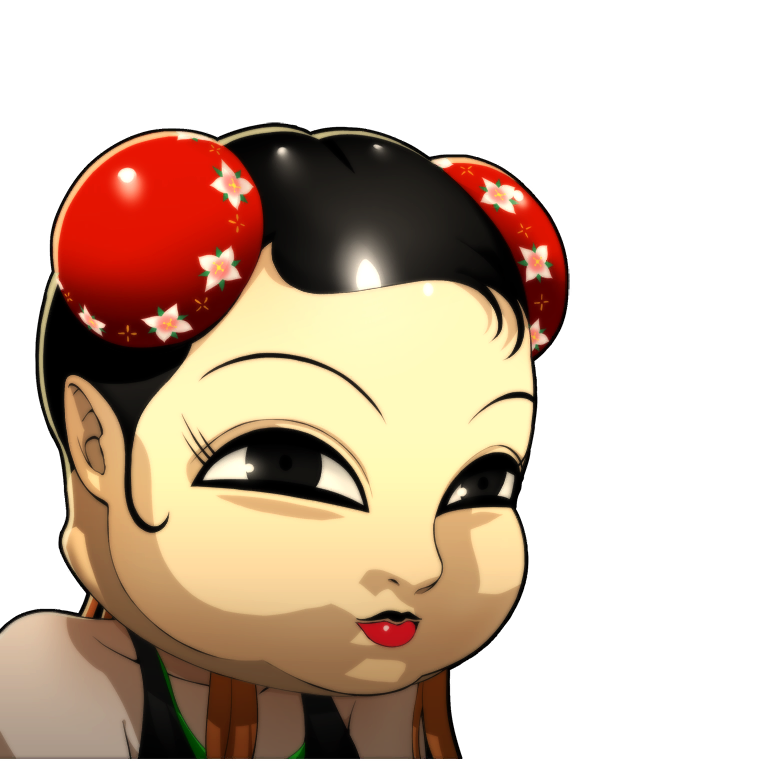
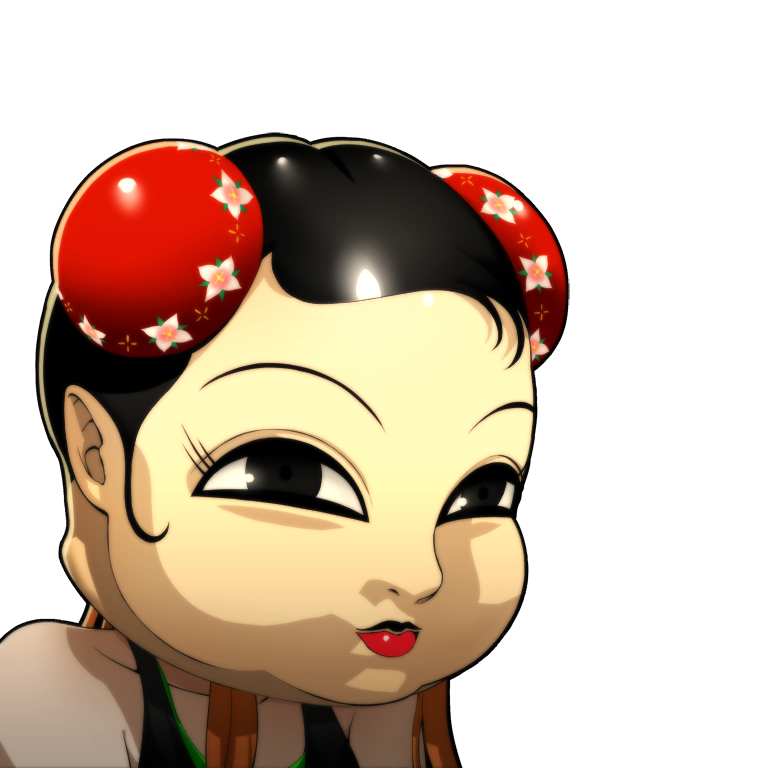
Replaced Futaba's Royal casual mask portrait and added some additional styling and header content

Changed region(s): [[0.0, 0.1562, 0.75, 1.0], [0.2188, 0.5312, 0.5, 0.6875], [0.2188, 0.75, 0.25, 0.7812]]

diff --git a/assets/styles.css b/assets/styles.css
@@ -39,10 +39,54 @@ body {
   flex-direction: column;
 }
 
+/* Titles */
+
+@keyframes titleTransition {
+  0%   {opacity: 1; font-family: 'KoreanKRSM'; }
+  10%  {opacity: 0;}
+  33%  {opacity: 1; font-family: 'Optima nova LT'; }
+  40%  {opacity: 0;}
+  75%  {opacity: 1; font-family: 'SlumpSTD'; }
+  100% {opacity: 0; }
+}
+
+#header {
+  display: flex;
+  flex-direction: column;
+  justify-content: center;
+  align-items: center;
+}
+
+#title {
+  display: flex;
+  justify-content: center;
+  align-items: center;
+}
+
+#generatorTitle {
+  width: 600px;
+  font-size: 40px;
+
+  animation-name: titleTransition;
+  animation-duration: 15s;
+  animation-iteration-count: infinite;
+}
+
+#credits {
+  background-color: white;
+  border: 2px solid black;
+  box-shadow: 3px 3px black;
+  text-align: center;
+}
+
 /* Image and text canvases */
 
 #canvasDiv {
   position: relative;
+  background-color: white;
+  border: 2px solid black;
+  line-height: 0; /* Eliminates small bit of padding at the bottom of canvas-containing div */
+  box-shadow: 4px 4px black;
 }
 
 #portraitCanvas {
@@ -60,6 +104,7 @@ body {
 /* Text and Tools */
 
 #textField {
+  margin: 10px;
   font-family: 'sans-serif';
   resize: none;
   white-space: nowrap;

diff --git a/App.tsx b/App.tsx
@@ -47,9 +47,16 @@ const App = () => {
 
   return (
     <>
-      Persona 5 Dialogue Box Generator<br></br>
-      Code by <a href='https://twitter.com/opennoise' target='_blank'>opennoise</a>, 
-      all artwork/content by <a href='https://twitter.com/Atlus_West' target='_blank'>Atlus</a>
+      <div id='header'>
+        <div id='title'>
+          <img id='p5logo' src='./images/personalogo.png' width={250} height={151} />
+          <h1 id='generatorTitle'>DIALOGUE GENERATOR</h1>
+        </div>
+        <p id='credits'>
+          Code by <a href='https://twitter.com/opennoise' target='_blank'>opennoise</a>, 
+          all artwork/content by <a href='https://twitter.com/Atlus_West' target='_blank'>Atlus</a>
+        </p>
+      </div>
       <div id='imageTools'>
         <ImageCanvas {...appProps} />
         <TextAndTools {...appProps} />

diff --git a/components/TextAndTools.tsx b/components/TextAndTools.tsx
@@ -34,7 +34,7 @@ const TextAndTools = ({ char, setChar, emote, setEmote, costume, setCostume, set
     const dCtx: CanvasRenderingContext2D = downloadCanvas.getContext('2d');
     dCtx.drawImage(portraitCanvas, 0, 0, 1300, 500);
     dCtx.drawImage(textCanvas, 0, 0, 1300, 500);
-    const link = document.createElement('a');
+    const link: HTMLAnchorElement = document.createElement('a');
     link.download = `${char}-${text}.png`;
     link.href = downloadCanvas.toDataURL('image/png');
     link.click();
